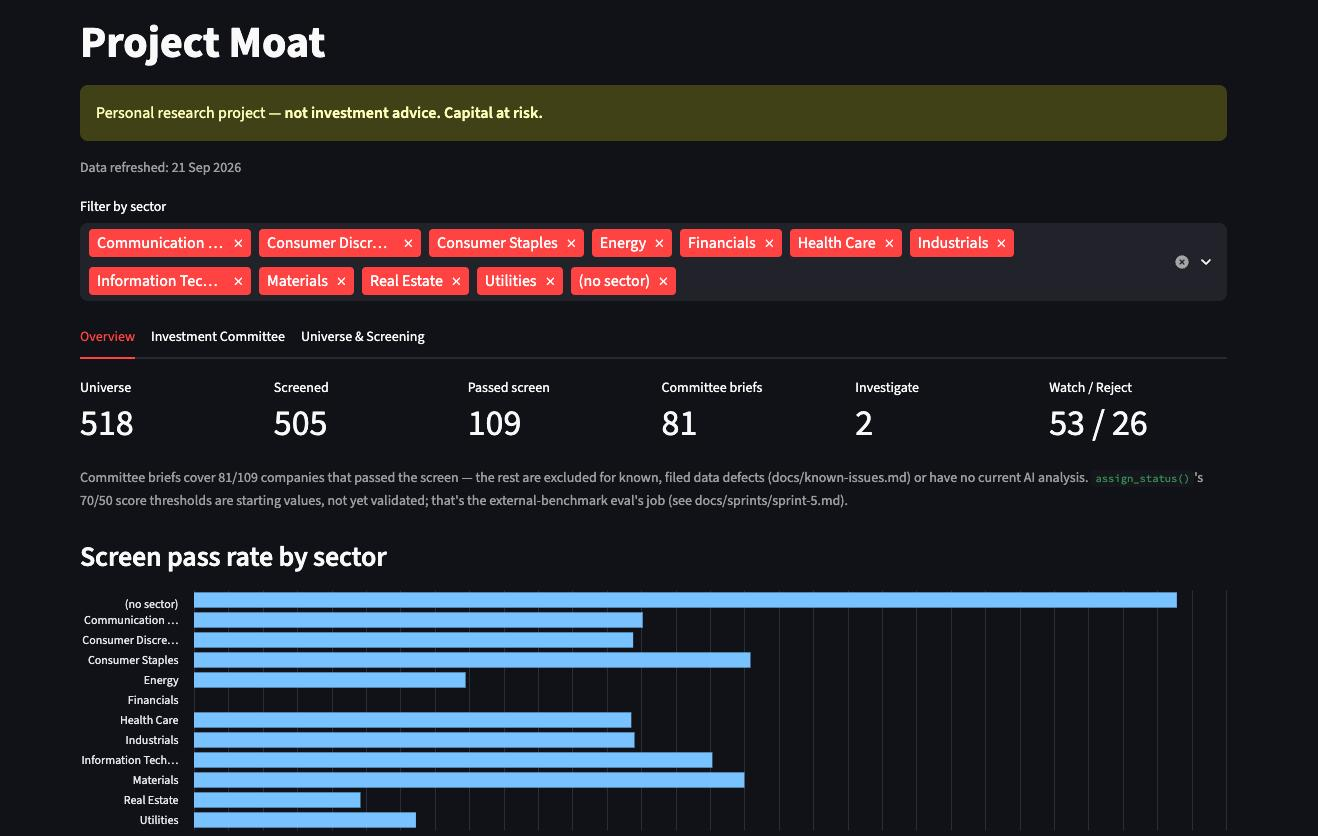
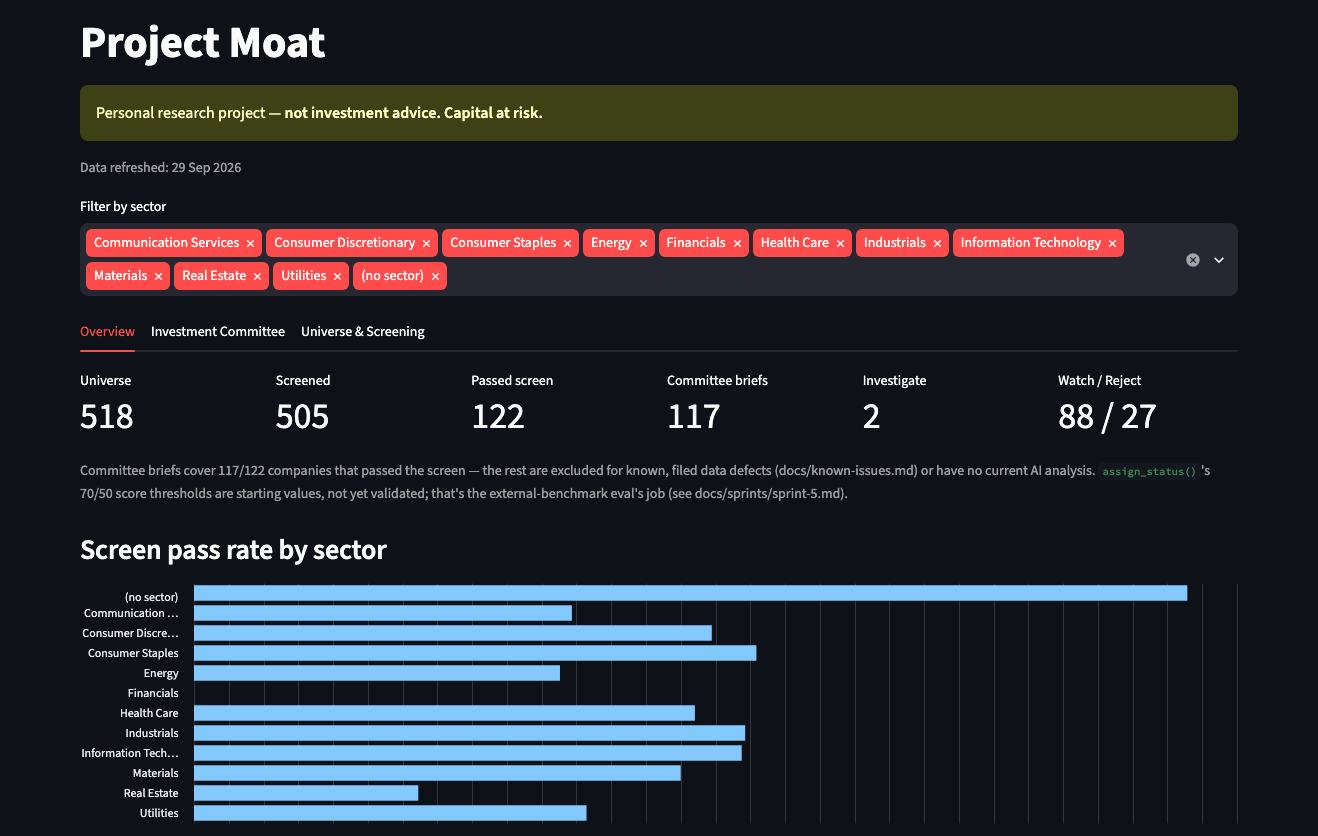
README: count all committee spend; new Overview screenshot
ai_spend_committee_pilot $12.77 -> $27.57, so the total goes from ~$35.6
to ~$50.4. The figure now covers every committee run that spent money.
- Sprint 5 pilots: $12.77, unchanged.
- Sprint 6.0 re-run: ~$7.46, from the operator's notes on 2026-09-30.
  The run logs weren't kept. Cross-checked at ~$7.41 (118 fresh
  verdicts x the replicate's measured per-verdict cost).
- Amendment 1 replicate: $7.34, from the sealed stage log's own
  "total cost estimate: $7.343" line.
The source note gives each figure's provenance. The render text and the
docstring no longer call it Sprint 5 only.

docs/img/overview.jpg is recaptured from the dashboard at this branch's
HEAD against the live DB, opened read-only: 518 / 505 / 122 / 117 / 2 /
88 / 27. Same 1318x836 framing as before, 93 KB (was 91 KB).

Claude-Session: https://claude.ai/code/session_01EQ1Ky88XGVZ8xgZZNxtqBe

diff --git a/scripts/metrics.py b/scripts/metrics.py
@@ -26,8 +26,9 @@ Metrics fall into four kinds:
             data treated as failure" bug, repeated here against this
             project's own numbers, and exactly what this script exists to
             prevent.
-  - manual  Not recoverable from any automated source. The Sprint 5
-            committee pilot's spend is real API cost the committee stage
+  - manual  Not recoverable from any automated source. Committee spend
+            (every run, not only the Sprint 5 pilot the key is named after)
+            is real API cost the committee stage
             computes in memory but never persists (committee_verdicts has
             no cost column — confirmed against moat/db/schema.sql).
             --refresh never touches these; edit docs/metrics.json by hand
@@ -283,9 +284,10 @@ def render_block(metrics: dict) -> str:
         "count current analyses: the Sprint 3.1 batch run analyzed the first 70 companies "
         "and later runs added the rest. Spend is the analysis-stage total from "
         "`analysis_attempts.cost_estimate` (data-derived, all outcomes — a failed attempt "
-        "still cost real money) plus the Sprint 5 committee pilot's spend, which the "
-        "committee stage computes but doesn't persist, so that one figure stays "
-        "hand-maintained (see `docs/metrics.json`). Test count is `pytest`'s own "
+        "still cost real money) plus committee spend (the Sprint 5 pilots, the Sprint 6.0 "
+        "re-run and the eval's committee replicate), which the committee stage computes "
+        "but doesn't persist, so that one figure stays hand-maintained (see "
+        "`docs/metrics.json`). Test count is `pytest`'s own "
         "collection, run against `HEAD`. Issue count is "
         "[GitHub Issues](https://github.com/petehawtree/moat/issues). "
         f"Generated by `scripts/metrics.py --render`, {max(v['as_of'] for v in metrics.values())}.",

diff --git a/README.md b/README.md
@@ -27,11 +27,11 @@ after the Sprint 6.0 re-ingest of the data-defect fixes
 <!-- metrics:start -->
 | | | |
 |---|---|---|
-| 205 commits | 518-company universe, 506 with fundamentals | 122/505 pass the quant screen |
-| 129 companies fully AI-analyzed, 4,362 citations | ~$35.6 total AI spend across every pilot to date | 541 tests, 540 passing (1 opt-in live-API test) |
+| 206 commits | 518-company universe, 506 with fundamentals | 122/505 pass the quant screen |
+| 129 companies fully AI-analyzed, 4,362 citations | ~$50.4 total AI spend across every pilot to date | 541 tests, 540 passing (1 opt-in live-API test) |
 | 17 GitHub issues filed, 10 open — tracked, not hidden | | |
 
-Sources: commit count is `git rev-list --count HEAD`. Universe/fundamentals coverage, the screen result, the AI-analyzed/citation figures and analysis-stage spend are read from `data/moat.db`, which is gitignored, so they only refresh on the development machine: these are as of 2026-11-22. The Sprint 1, Sprint 3.1 and Sprint 5 retros and the [Sprint 6.0 re-ingest diff](docs/evals/sprint-6.0-reingest-diff.md) give the screen result's history. The AI-analyzed/citation figures count current analyses: the Sprint 3.1 batch run analyzed the first 70 companies and later runs added the rest. Spend is the analysis-stage total from `analysis_attempts.cost_estimate` (data-derived, all outcomes — a failed attempt still cost real money) plus the Sprint 5 committee pilot's spend, which the committee stage computes but doesn't persist, so that one figure stays hand-maintained (see `docs/metrics.json`). Test count is `pytest`'s own collection, run against `HEAD`. Issue count is [GitHub Issues](https://github.com/petehawtree/moat/issues). Generated by `scripts/metrics.py --render`, 2026-11-22.
+Sources: commit count is `git rev-list --count HEAD`. Universe/fundamentals coverage, the screen result, the AI-analyzed/citation figures and analysis-stage spend are read from `data/moat.db`, which is gitignored, so they only refresh on the development machine: these are as of 2026-11-22. The Sprint 1, Sprint 3.1 and Sprint 5 retros and the [Sprint 6.0 re-ingest diff](docs/evals/sprint-6.0-reingest-diff.md) give the screen result's history. The AI-analyzed/citation figures count current analyses: the Sprint 3.1 batch run analyzed the first 70 companies and later runs added the rest. Spend is the analysis-stage total from `analysis_attempts.cost_estimate` (data-derived, all outcomes — a failed attempt still cost real money) plus committee spend (the Sprint 5 pilots, the Sprint 6.0 re-run and the eval's committee replicate), which the committee stage computes but doesn't persist, so that one figure stays hand-maintained (see `docs/metrics.json`). Test count is `pytest`'s own collection, run against `HEAD`. Issue count is [GitHub Issues](https://github.com/petehawtree/moat/issues). Generated by `scripts/metrics.py --render`, 2026-11-22.
 <!-- metrics:end -->
 
 **Read next:** [PRD_ADDENDUM.md](docs/PRD_ADDENDUM.md) (scoping decisions,
